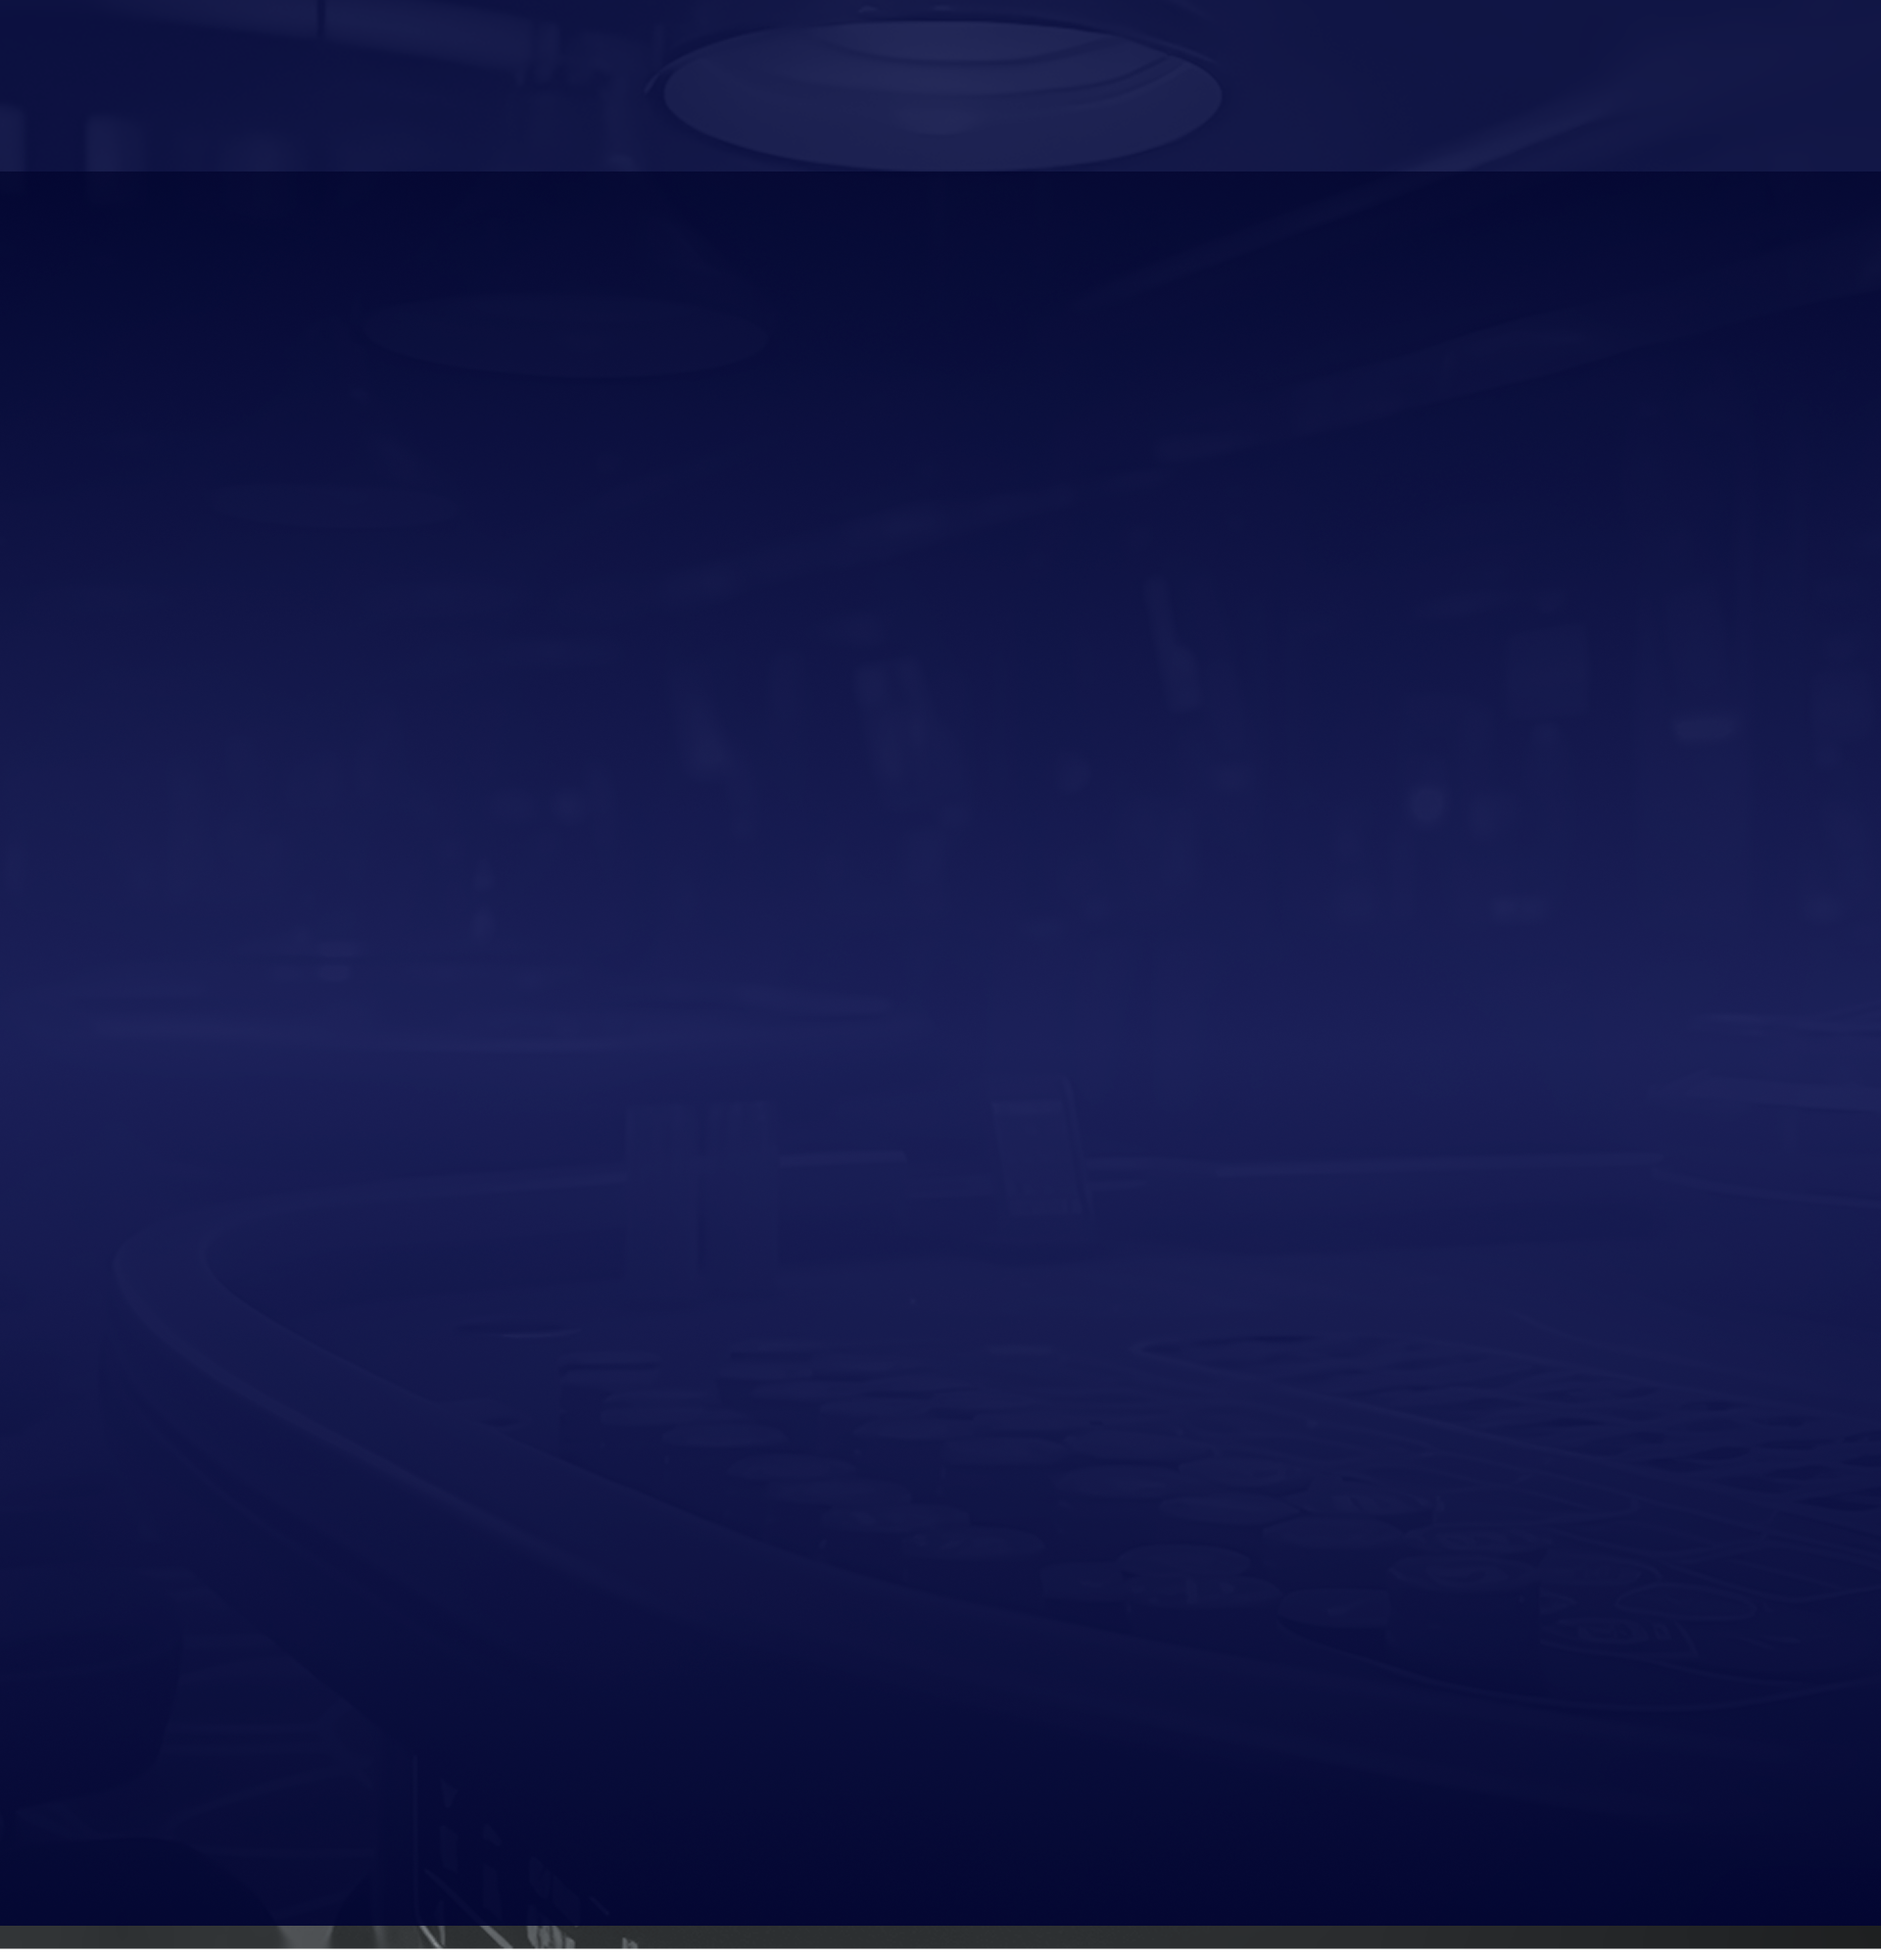
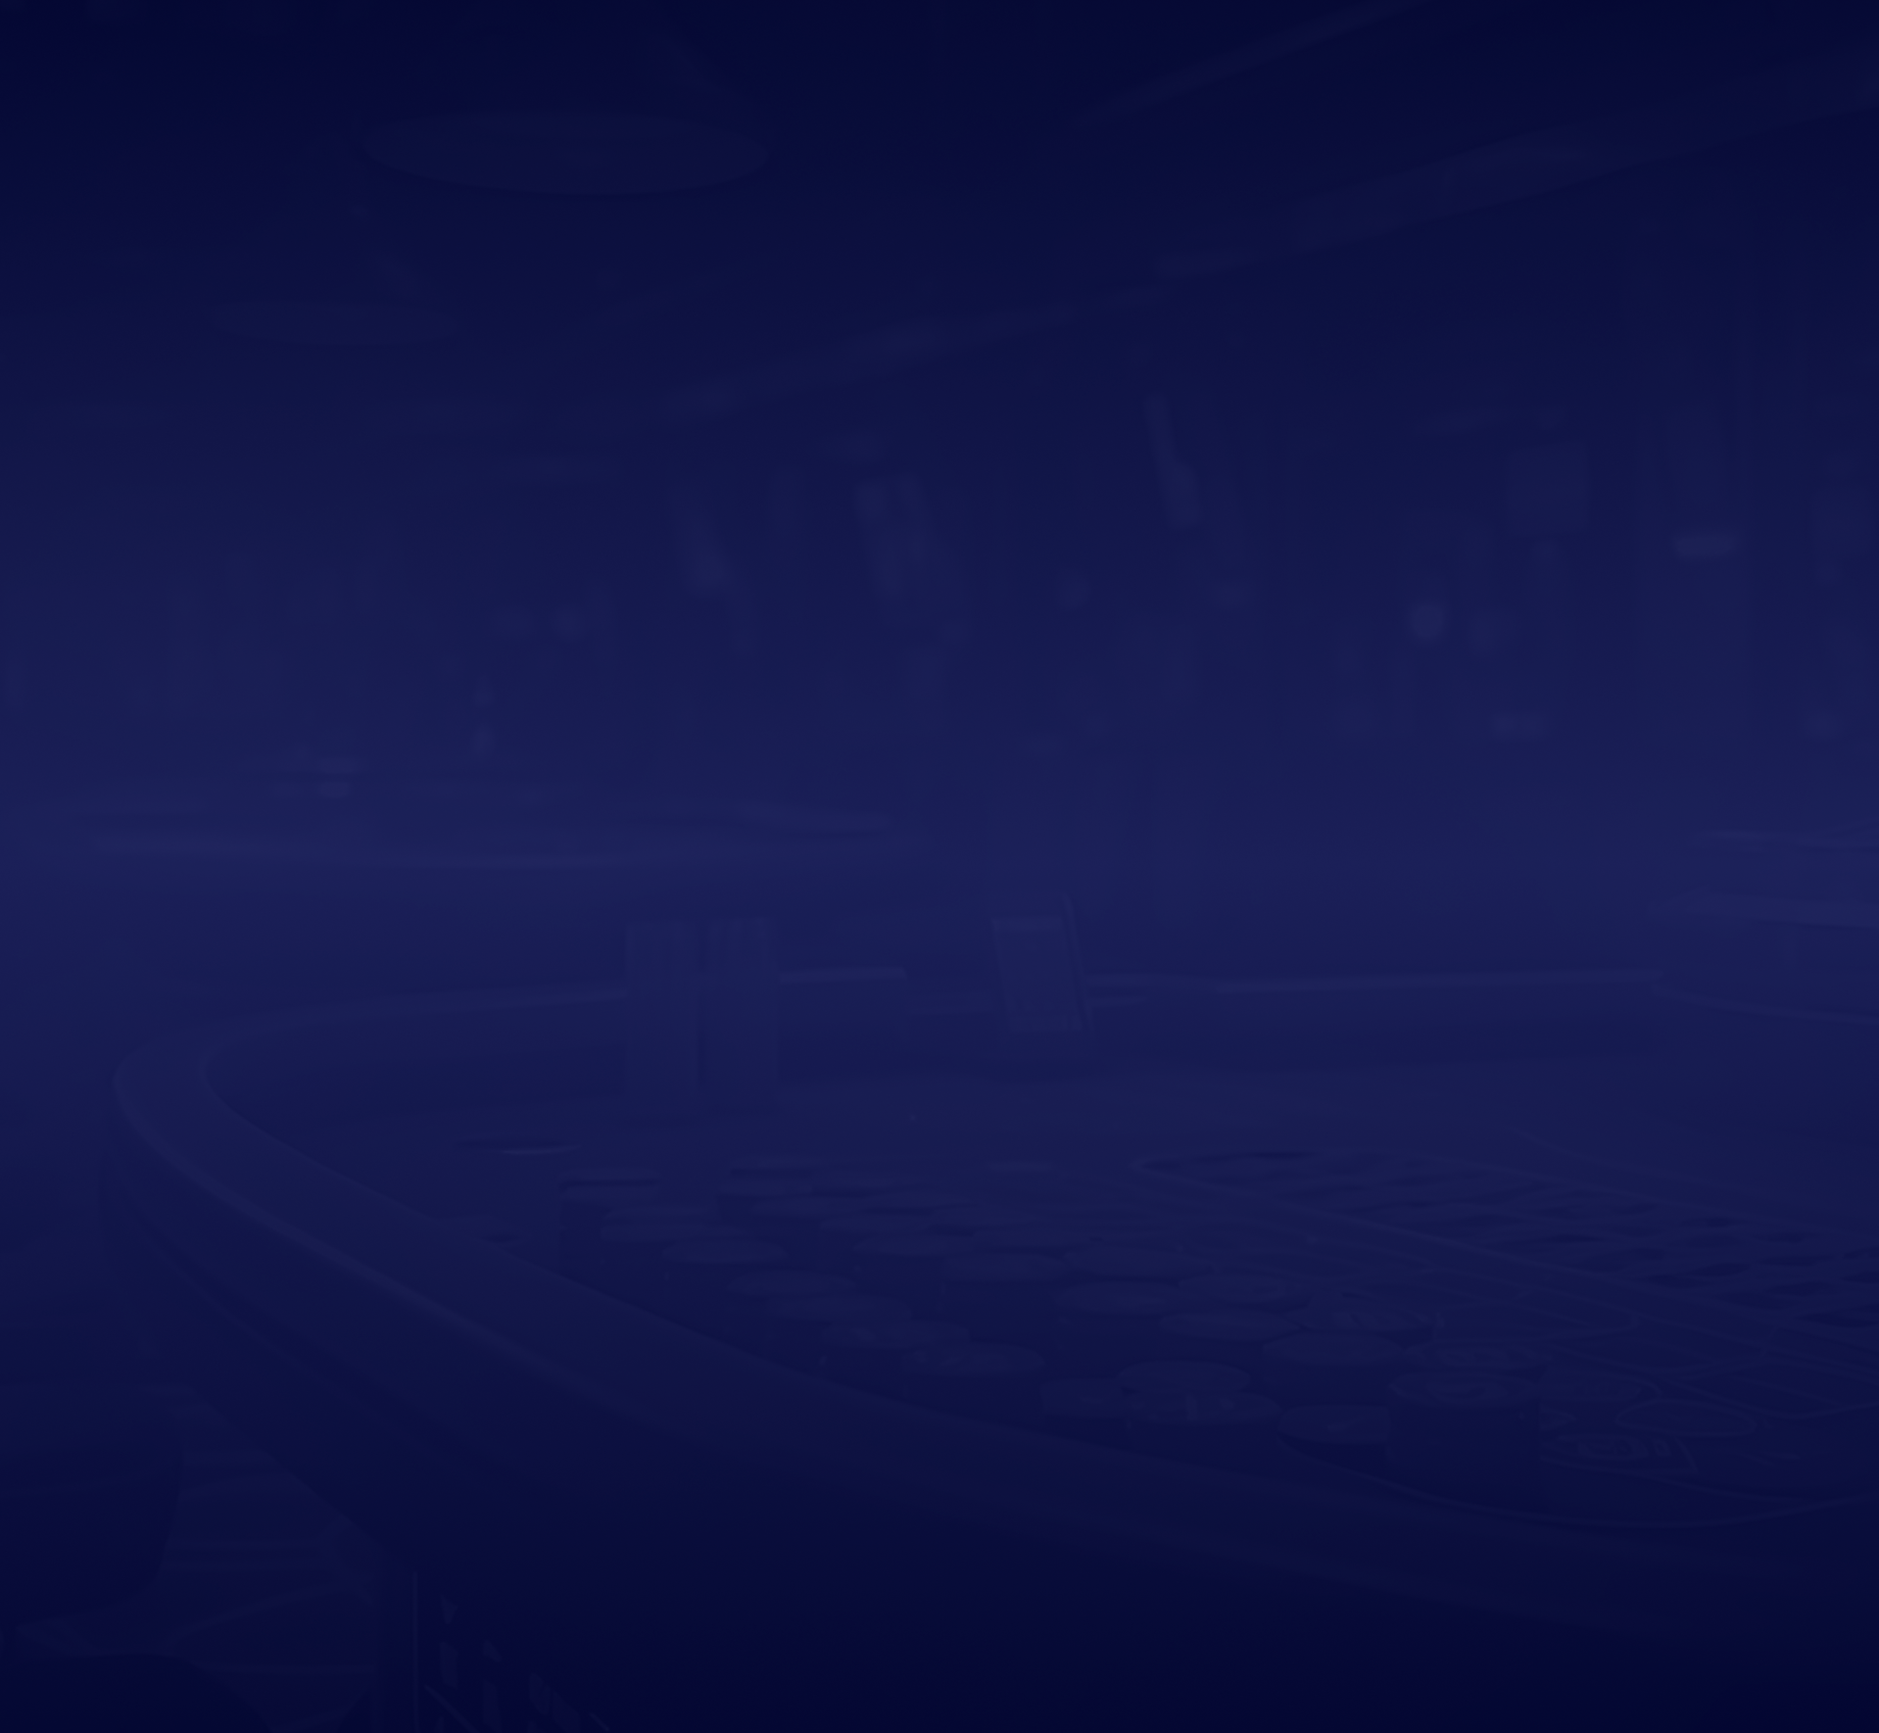
update layouts

Changed region(s): [[0.0, 0.9638, 1.0, 1.0], [0.3691, 0.0, 0.646, 0.0933]]

diff --git a/index.html b/index.html
@@ -1,12 +1,12 @@
 <!DOCTYPE html>
-<html lang="en">
+<html lang="en" class="scroll-smooth">
 <head>
     <meta charset="UTF-8">
     <meta name="viewport" content="width=device-width, initial-scale=1.0">
     <title>PANALOBET X COMBO</title>
     <script src="https://cdn.jsdelivr.net/npm/@tailwindcss/browser@4"></script>
 </head>
-<body>
+<body class="bg-[#060B1E]">
     <header class="bg-[#1F2460]">
         <div class="bg-[#1F2460]">
             <div class="max-w-[1230px] mx-auto bg-[#1F2460] py-[20px] px-2 md:px-0 flex gap-x-10">
@@ -29,7 +29,7 @@
         <div class="max-w-[1230px] py-10 md:py-20 mx-auto">
             <h1 class="text-[#FFE207] font-bold text-[20px] px-1 md:px-0 text-pretty md:text-[40px] uppercase text-center">Combo Slot (CMB) — Ultimate Slot Strategy Guide Landing Page</h1>
             <h2 class="uppercase text-[18px] md:text-[32px] px-1 md:px-0 text-white text-center mt-5 md:mt-4 font-bold">Connect Players. Make Fun. Build Unique Games.</h2>
-            <p class="text-center text-white text-[16px] md:text-[19px] mt-4 mb-5 md:mt-4 md:mb-0 px-1 md:px-0"> Combo Slot (CMB) is one of the fastest-rising slot gaming brands in Asia, offering exciting gameplay, high-impact animations, 
+            <p class="max-w-6xl text-center mx-auto text-white text-[16px] md:text-[19px] mt-4 mb-5 md:mt-4 md:mb-0 px-1 md:px-0"> Combo Slot (CMB) is one of the fastest-rising slot gaming brands in Asia, offering exciting gameplay, high-impact animations, 
                 and innovative bonus mechanics. This strategy page shows you everything you need to know about CMB’s top 5 hit titles—how they work, how they explode, 
                 and what type of players they’re built for.
             </p>
@@ -198,44 +198,64 @@
             </picture>
         </div>
     </div>
-    <div class="bg-[url(/img/BANNER_section_third-mobile.png)] min-h-[300px] md:bg-[url(/img/BANNER_section_third.png)] bg-cover bg-no-repeat bg-center md:min-h-[820px]">
+    <div class="bg-[url(/img/BANNER_section_third-mobile.png)] bg-contain min-h-[200px] md:bg-[url(/img/BANNER_section_third.png)] md:bg-cover bg-no-repeat bg-center md:min-h-[820px]">
     </div>
     <div class="bg-[url(/img/PROVIDER_BG.png)] bg-cover bg-no-repeat py-10 md:pt-10 md:pb-30">
         <div class="max-w-[1230px] mx-auto hidden md:flex items-center">
             <div>
-                <img src="/img/provider/desktop/call_of_thor_cropped.png" alt="Provider">
+                <a href="#call_of_thor">
+                    <img src="/img/provider/desktop/call_of_thor_cropped.png" alt="Provider">
+                </a>
             </div>
             <div>
-                <img src="/img/provider/desktop/gummy_bonanza_cropped.png" alt="Provider">
+                <a href="#gummy_bonanza">
+                    <img src="/img/provider/desktop/gummy_bonanza_cropped.png" alt="Provider">
+                </a>
             </div>
             <div>
-                <img src="/img/provider/desktop/ocean_captain_cropped.png" alt="Provider">
+                <a href="#ocean_captain">
+                    <img src="/img/provider/desktop/ocean_captain_cropped.png" alt="Provider">
+                </a>
             </div>
             <div>
-                <img src="/img/provider/desktop/rise_of_egypt_cropped.png" alt="Provider">
+                <a href="#rise_of_egypt">
+                    <img src="/img/provider/desktop/rise_of_egypt_cropped.png" alt="Provider">
+                </a>
             </div>
             <div>
-                <img src="/img/provider/desktop/vampire_hunter_cropped.png" alt="Provider">
+                <a href="#vampire_hunter">
+                    <img src="/img/provider/desktop/vampire_hunter_cropped.png" alt="Provider">
+                </a>
             </div>
         </div>
         <div class="max-w-[1230px] mx-auto md:hidden">
             <div class="flex items-center">
                 <div>
-                    <img src="/img/provider/desktop/call_of_thor_cropped.png" alt="Provider">
+                    <a href="#call_of_thor">
+                        <img src="/img/provider/desktop/call_of_thor_cropped.png" alt="Provider">
+                    </a>
                 </div>
                 <div>
-                    <img src="/img/provider/desktop/gummy_bonanza_cropped.png" alt="Provider">
+                    <a href="#gummy_bonanza">
+                        <img src="/img/provider/desktop/gummy_bonanza_cropped.png" alt="Provider">
+                    </a>
                 </div>
                 <div>
-                    <img src="/img/provider/desktop/ocean_captain_cropped.png" alt="Provider">
+                    <a href="#ocean_captain">
+                        <img src="/img/provider/desktop/ocean_captain_cropped.png" alt="Provider">
+                    </a>
                 </div>
             </div>
             <div class="flex items-center justify-center">
                 <div>
-                <img src="/img/provider/desktop/rise_of_egypt_cropped.png" alt="Provider" width="200">
+                    <a href="#rise_of_egypt">
+                        <img src="/img/provider/desktop/rise_of_egypt_cropped.png" alt="Provider" width="200">
+                    </a>
             </div>
             <div>
-                <img src="/img/provider/desktop/vampire_hunter_cropped.png" alt="Provider" width="200">
+                <a href="#vampire_hunter">
+                    <img src="/img/provider/desktop/vampire_hunter_cropped.png" alt="Provider" width="200">
+                </a>
             </div>
             </div>
         </div>
@@ -312,7 +332,7 @@
             <div class="px-2 mt-10 md:mt-30 md:px-0">
                 <h2 class="uppercase text-[18px] md:text-[32px] px-1 md:px-0 text-center font-bold text-[#FFE207]">Top 5 Must-Play CMB Slot Games — Full Strategy Guide</h2>
 
-                <div class="mt-8 md:mt-20">
+                <div id="call_of_thor" class="mt-8 md:mt-20">
                     <img src="/img/provider/call_of_thor_banner.png" alt="Banner" />
                     <div class="mt-5 md:mt-10">
                         <h3 class="text-white text-[18px] md:text-[24px]"><span class="text-[#FFE207] font-bold">1. Call of Thor</span> - God of Thunder Multiplier Machine</h3>
@@ -343,7 +363,7 @@
                         </div>
                     </div>
                 </div>
-                <div class="mt-8 md:mt-20">
+                <div id="gummy_bonanza" class="mt-8 md:mt-20">
                     <img src="/img/provider/Gummy_Bonanza_banner.png" alt="Banner" />
                     <div class="mt-5 md:mt-10">
                         <h3 class="text-white text-[18px] md:text-[24px]"><span class="text-[#FFE207] font-bold">2. Gummy Bonanza</span> - Cute Combo Chain Explosion Game</h3>
@@ -373,7 +393,7 @@
                         </div>
                     </div>
                 </div>
-                <div class="mt-8 md:mt-20">
+                <div id="ocean_captain" class="mt-8 md:mt-20">
                     <img src="/img/provider/Ocean_Captain_banner.png" alt="Banner" />
                     <div class="mt-5 md:mt-10">
                         <h3 class="text-white text-[18px] md:text-[24px]"><span class="text-[#FFE207] font-bold">3. Ocean Captain</span> - Pirate Treasure Hunt Slot Adventure</h3>
@@ -403,7 +423,7 @@
                         </div>
                     </div>
                 </div>
-                <div class="mt-8 md:mt-20">
+                <div id="rise_of_egypt" class="mt-8 md:mt-20">
                     <img src="/img/provider/Rise_of_Egypt_banner.png" alt="Banner" />
                     <div class="mt-5 md:mt-10">
                         <h3 class="text-white text-[18px] md:text-[24px]"><span class="text-[#FFE207] font-bold">4. Rise of Egypt</span> - Queen’s Blessing Expanding-Reel Slot</h3>
@@ -433,7 +453,7 @@
                         </div>
                     </div>
                 </div>
-                <div class="mt-8 md:mt-20">
+                <div id="vampire_hunter" class="mt-8 md:mt-20">
                     <img src="/img/provider/Vampire_Hunter_banner.png" alt="Banner" />
                     <div class="mt-5 md:mt-10">
                         <h3 class="text-white text-[18px] md:text-[24px]"><span class="text-[#FFE207] font-bold">5. Vampire Hunter</span> - Dark Multiplier Chase Slot</h3>
